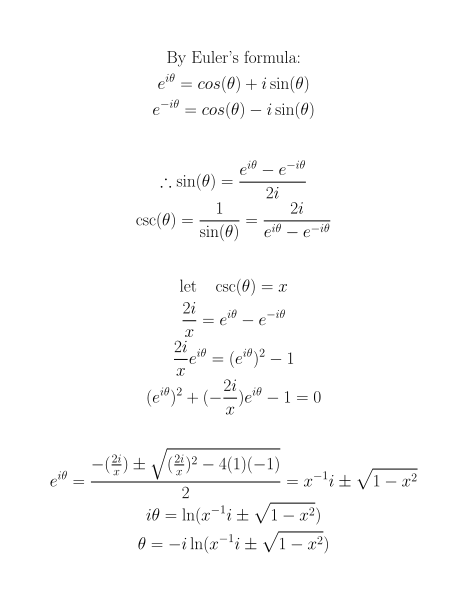
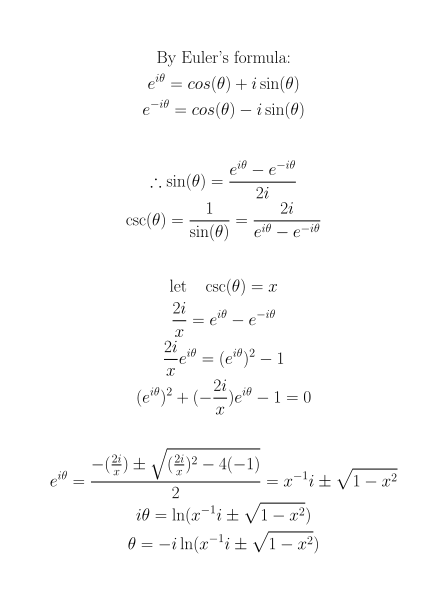
feat: finish arcus functions

diff --git a/languages/python/calculators/Trigometric Functions.py b/languages/python/calculators/Trigometric Functions.py
@@ -1,10 +1,10 @@
-from cmath import e, sqrt, log
+from cmath import e, pi, sqrt, log
 from _helpers import floatInput
 
 i = sqrt(-1)
 
 compute = lambda numerator, denominator: (numerator / denominator).real
-ln = lambda x: log(x, e)
+computeInverse = lambda x: (-i * log(x, e)).real
 
 sin = lambda x: compute(pow(e, i * x) - pow(e, -i * x), 2 * i)
 cos = lambda x: compute(pow(e, i * x) + pow(e, -i * x), 2)
@@ -13,14 +13,20 @@ csc = lambda x: 1 / sin(x)
 sec = lambda x: 1 / cos(x)
 cot = lambda x: 1 / tan(x)
 
-arcsin = lambda x: (-i * ln((i * x) + sqrt(1 - pow(x, 2)))).real
+arcsin = lambda x: computeInverse((i * x) + sqrt(1 - pow(x, 2)))
+arccos = lambda x: computeInverse(x + sqrt(pow(x, 2) - 1))
+arctan = lambda x: computeInverse((i - x) / (i + x)) / 2
+arccsc = lambda x: computeInverse((pow(x, -1) * i) + sqrt(1 - pow(x, -2)))
+arcsec = lambda x: computeInverse((pow(x, -1)) + sqrt(pow(x, -2) - 1))
+arccot = lambda x: computeInverse((x + i) / (x - i)) / 2
 
-# todo: finish arc functions
-arccos = lambda x: None
-arctan = lambda x: None
-arccsc = lambda x: (-i * (ln((pow(x, -1) * i) + sqrt(1 - pow(x, -2))))).real
-arcsec = lambda x: None
-arccot = lambda x: None
+# todo: hyperbolic functions
+
+# todo: hyperbolic inverse functions
+
+# todo: hyperbolic reciprocal functions
+
+# todo: hyperbolic inverse reciprocal functions
 
 radians = floatInput("Please enter an amount of radians: ")
 

diff --git a/maths/trigometric functions/cot.tex b/maths/trigometric functions/cot.tex
@@ -1,0 +1,29 @@
+\documentclass{../style}
+\usepackage{amsmath}
+\usepackage{amssymb}
+\begin{document}
+\euler
+
+\begin{gather*}
+	\therefore \sin(\theta) = \frac{e^{i\theta} - e^{-i\theta}}{2i} \\
+	\cos(\theta) = \frac{e^{i\theta} + e^{-i\theta}}{2} \\
+	\tan(\theta) = \frac{\sin(\theta)}{\cos{\theta}} = -\frac{i(-1 + e^{2i\theta})}{1 + e^{2i\theta}} \\
+	\cot(\theta) = \frac{1}{\tan(\theta)} = -\frac{1 + e^{2i\theta}}{i(-1 + e^{2i\theta})}
+\end{gather*}
+
+\begin{gather*}
+	\text{let} \quad \cot(\theta) = x \\
+	x(i + ie^{2i\theta}) = -1(1 + e^{2i\theta}) \\
+	ix + ixe^{2i\theta} = -e^{2i\theta} - 1 \\
+	ixe^{2i\theta} + e^{2i\theta} = -1 - ix \\
+	(ix + 1)e^{2i\theta} = -1 - ix \\
+	e^{2i\theta} = -\frac{1 - ix}{1 + ix} \\
+	2i\theta = \ln(\frac{x + i}{x - i}) \\
+	i\theta = \frac{1}{2}\ln(\frac{x + i}{x - i}) \\
+	\theta = -\frac{i}{2}\ln(\frac{x + i}{x - i})
+\end{gather*}
+
+\begin{gather*}
+	\therefore \text{arccot}(\theta) = -\frac{i}{2}\ln(\frac{\theta + i}{\theta - i})
+\end{gather*}
+\end{document}

diff --git a/maths/trigometric functions/sec.tex b/maths/trigometric functions/sec.tex
@@ -1,0 +1,29 @@
+\documentclass{../style}
+\usepackage{amsmath}
+\usepackage{amssymb}
+\begin{document}
+\euler
+
+\begin{gather*}
+	\therefore \cos(\theta) = \frac{e^{i\theta} + e^{-i\theta}}{2} \\
+	\sec(\theta) = \frac{1}{\cos(\theta)} = \frac{2}{e^{i\theta} + e^{-i\theta}}
+\end{gather*}
+
+\begin{gather*}
+	\text{let} \quad \sec(\theta) = x \\
+	x(e^{i\theta} + e^{-i\theta}) = 2 \\
+	e^{i\theta} + e^{-i\theta} = \frac{2}{x} \\
+	(e^{i\theta})^2 + 1 = \frac{2}{x}e^{i\theta} \\
+	(e^{i\theta})^2 + (-\frac{2}{x})e^{i\theta} + 1 = 0
+\end{gather*}
+
+\begin{gather*}
+	e^{i\theta} = \frac{-(-\frac{2}{x}) \pm \sqrt{(-\frac{2}{x})^2 - 4}}{2} = x^{-1} \pm \sqrt{x^{-2} - 1} \\
+	i\theta = \ln(x^{-1} \pm \sqrt{x^{-2} - 1}) \\
+	\theta = -i\ln(x^{-1} \pm \sqrt{x^{-2} - 1})
+\end{gather*}
+
+\begin{gather*}
+	\therefore \text{arcsec}(\theta) = -i\ln(\theta^{-1} \pm \sqrt{\theta^{-2} - 1})
+\end{gather*}
+\end{document}

diff --git a/maths/trigometric functions/tan.tex b/maths/trigometric functions/tan.tex
@@ -1,0 +1,28 @@
+\documentclass{../style}
+\usepackage{amsmath}
+\usepackage{amssymb}
+\begin{document}
+\euler
+
+\begin{gather*}
+	\therefore \sin(\theta) = \frac{e^{i\theta} - e^{-i\theta}}{2i} \\
+	\cos(\theta) = \frac{e^{i\theta} + e^{-i\theta}}{2} \\
+	\tan(\theta) = \frac{\sin(\theta)}{\cos{\theta}} = -\frac{i(-1 + e^{2i\theta})}{1 + e^{2i\theta}}
+\end{gather*}
+
+\begin{gather*}
+	\text{let} \quad \tan(\theta) = x \\
+	x(1 + e^{2i\theta}) = -i(-1 + e^{2i\theta}) \\
+	x + xe^{2i\theta} = i - ie^{2i\theta} \\
+	xe^{2i\theta} + ie^{2i\theta} = i - x \\
+	e^{2i\theta}(i + x) = i - x \\
+	e^{2i\theta} = \frac{i - x}{i + x} \\
+	2i\theta = \ln(\frac{i - x}{i + x}) \\
+	i\theta = \frac{1}{2}\ln(\frac{i - x}{i + x}) \\
+	\theta = -\frac{i}{2}\ln(\frac{i - x}{i + x})
+\end{gather*}
+
+\begin{gather*}
+	\therefore \arctan(\theta) = -\frac{i}{2}\ln(\frac{i - \theta}{i + \theta})
+\end{gather*}
+\end{document}

diff --git a/maths/trigometric functions/sin.tex b/maths/trigometric functions/sin.tex
@@ -2,11 +2,7 @@
 \usepackage{amsmath}
 \usepackage{amssymb}
 \begin{document}
-\begin{gather*}
-	\text{By Euler's formula:} \\
-	e^{i\theta} = cos(\theta) + i\sin(\theta) \\
-	e^{-i\theta} = cos(\theta) - i\sin(\theta)
-\end{gather*}
+\euler
 
 \begin{gather*}
 	\therefore \sin(\theta) = \frac{e^{i\theta} - e^{-i\theta}}{2i}
@@ -15,12 +11,12 @@
 \begin{gather*}
 	\text{let} \quad \sin(\theta) = x \\
 	2ix = e^{i\theta} - e^{-i\theta} \\
-	2ie^{i\theta}x = (e^{i\theta})^2 - 1 \\ 
+	2ixe^{i\theta} = (e^{i\theta})^2 - 1 \\ 
 	(e^{i\theta})^2 + (-2ix)e^{i\theta} - 1 = 0
 \end{gather*}
 
 \begin{gather*}
-	e^{i\theta} = \frac{-(-2ix) \pm \sqrt{(-2ix)^2 - 4(1)(-1)}}{2} = ix \pm \sqrt{1 - x^2} \\
+	e^{i\theta} = \frac{-(-2ix) \pm \sqrt{(-2ix)^2 - 4(-1)}}{2} = ix \pm \sqrt{1 - x^2} \\
 	i\theta = \ln(ix \pm \sqrt{1 - x^2}) \\
 	\theta = -i\ln(ix \pm \sqrt{1 - x^2})
 \end{gather*}

diff --git a/maths/trigometric functions/cos.tex b/maths/trigometric functions/cos.tex
@@ -1,0 +1,27 @@
+\documentclass{../style}
+\usepackage{amsmath}
+\usepackage{amssymb}
+\begin{document}
+\euler
+
+\begin{gather*}
+	\therefore \cos(\theta) = \frac{e^{i\theta} + e^{-i\theta}}{2}
+\end{gather*}
+
+\begin{gather*}
+	\text{let} \quad \cos(\theta) = x \\
+	2x = e^{i\theta} + e^{-i\theta} \\
+	2xe^{i\theta} = (e^{i\theta})^2 + 1 \\ 
+	(e^{i\theta})^2 + (-2x)e^{i\theta} + 1 = 0
+\end{gather*}
+
+\begin{gather*}
+	e^{i\theta} = \frac{-(-2x) \pm \sqrt{(-2x)^2 - 4}}{2} = x \pm \sqrt{x^2 - 1} \\
+	i\theta = \ln(x \pm \sqrt{x^2 - 1}) \\
+	\theta = -i\ln(x \pm \sqrt{x^2 - 1})
+\end{gather*}
+
+\begin{gather*}
+	\therefore \arccos(\theta) = -i\ln(\theta \pm \sqrt{\theta^2 - 1})
+\end{gather*}
+\end{document}

diff --git a/maths/trigometric functions/csc.tex b/maths/trigometric functions/csc.tex
@@ -2,11 +2,7 @@
 \usepackage{amsmath}
 \usepackage{amssymb}
 \begin{document}
-\begin{gather*}
-	\text{By Euler's formula:} \\
-	e^{i\theta} = cos(\theta) + i\sin(\theta) \\
-	e^{-i\theta} = cos(\theta) - i\sin(\theta)
-\end{gather*}
+\euler
 
 \begin{gather*}
 	\therefore \sin(\theta) = \frac{e^{i\theta} - e^{-i\theta}}{2i} \\
@@ -21,7 +17,7 @@
 \end{gather*}
 
 \begin{gather*}
-	e^{i\theta} = \frac{-(\frac{2i}{x}) \pm \sqrt{(\frac{2i}{x})^2 - 4(1)(-1)}}{2} = x^{-1}i \pm \sqrt{1 - x^2} \\
+	e^{i\theta} = \frac{-(\frac{2i}{x}) \pm \sqrt{(\frac{2i}{x})^2 - 4(-1)}}{2} = x^{-1}i \pm \sqrt{1 - x^2} \\
 	i\theta = \ln(x^{-1}i \pm \sqrt{1 - x^2}) \\
 	\theta = -i\ln(x^{-1}i \pm \sqrt{1 - x^2})
 \end{gather*}
